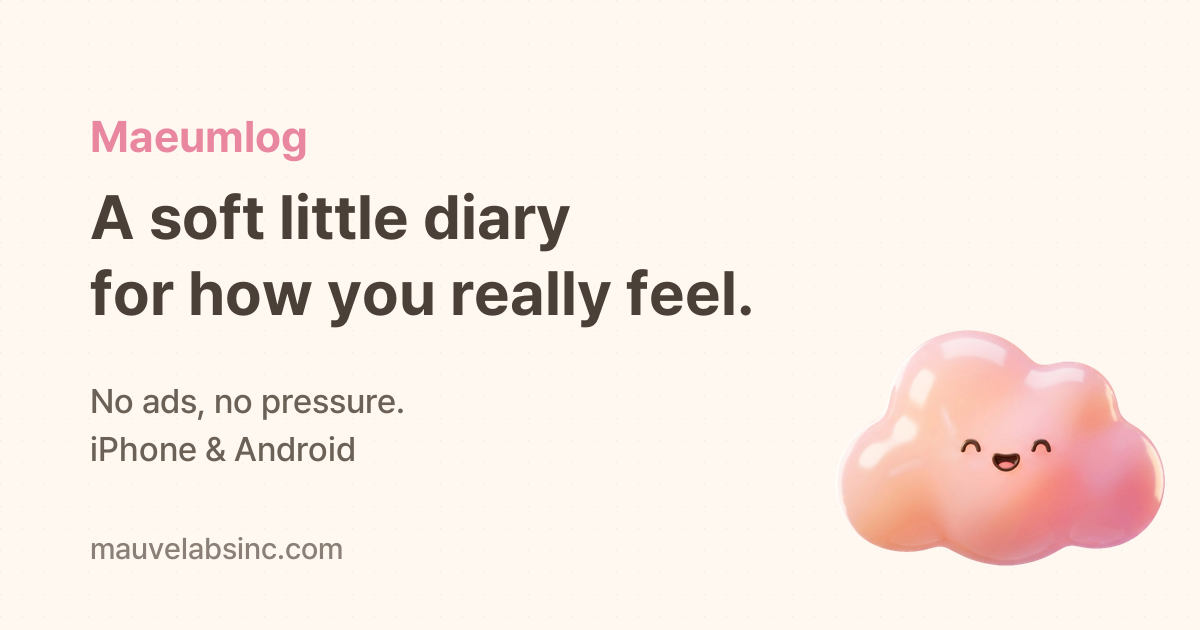
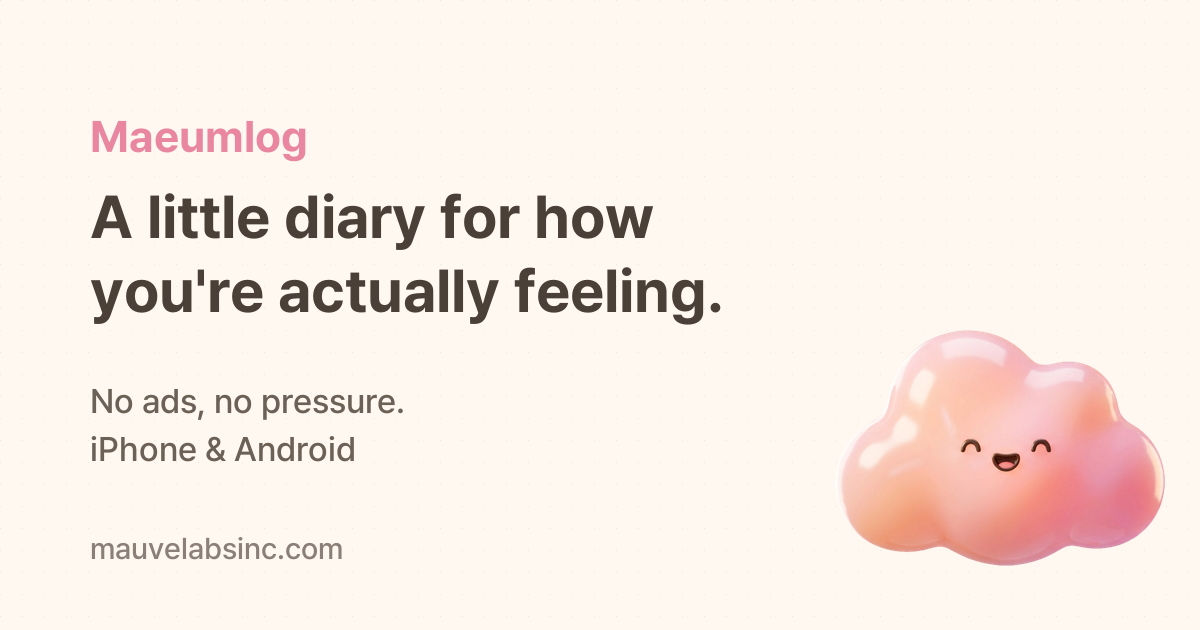
영어 문구를 원어민 대화체로 — 줄표·정형구·세 박자 나열·상담 말투 걷어 냄 · 공유 미리보기 새 제목
몽글이 다섯 표정 문구는 앱(en.ts)과 같아 그대로. 한국어는 뜻이 바뀐 곳만 맞춤.

Claude-Session: https://claude.ai/code/session_017HUExyZ58Y2Jv744zBtPxR

Changed region(s): [[0.0617, 0.4222, 0.6475, 0.5127], [0.1233, 0.3016, 0.555, 0.3921]]

diff --git a/index.html b/index.html
@@ -4,8 +4,8 @@
 <head>
   <meta charset="UTF-8">
   <meta name="viewport" content="width=device-width, initial-scale=1.0">
-  <title>Maeumlog — A cozy mood diary for iPhone and Android</title>
-  <meta name="description" content="Maeumlog is a soft little mood diary. Tap Mongle, pick a mood, add a few words or a photo when you feel like it. No ads, ever. Made by Mauve Labs.">
+  <title>Maeumlog: a cute, ad-free mood diary for iPhone and Android</title>
+  <meta name="description" content="Tap Mongle, pick how you feel, and you're done. Add a note or a photo if you want. No ads, ever. Made by Mauve Labs.">
   <link rel="icon" href="assets/maeumlog-icon.png" type="image/png">
   <link rel="canonical" href="https://mauvelabsinc.com/">
   <link rel="apple-touch-icon" href="assets/apple-touch-icon.png">
@@ -14,8 +14,8 @@
   <meta name="format-detection" content="telephone=no">
   <meta property="og:type" content="website">
   <meta property="og:site_name" content="Maeumlog by Mauve Labs">
-  <meta property="og:title" content="Maeumlog — A soft little diary for how you really feel">
-  <meta property="og:description" content="Tap Mongle, pick a mood, and you're done. No ads, no pressure.">
+  <meta property="og:title" content="Maeumlog: a little diary for how you're actually feeling">
+  <meta property="og:description" content="Tap Mongle, pick a mood, done. No ads, no pressure.">
   <meta property="og:url" content="https://mauvelabsinc.com/">
   <meta property="og:image" content="https://mauvelabsinc.com/assets/og.png">
   <meta property="og:image:width" content="1200">
@@ -44,14 +44,14 @@
   <!-- 첫 화면: 효용 한 줄 + 실제 앱 홈 화면(가리지 않는다) + 공식 배지 -->
   <section class="hero wrap">
     <div class="hero-copy">
-      <span class="sticker">a cozy mood diary</span>
-      <h1>A soft little diary for how you <em>really</em> feel.</h1>
-      <p class="lede">Tap Mongle, pick a mood, and you're done. Add a few words or a photo when you feel like it. No ads, no pressure.</p>
+      <span class="sticker">a tiny mood diary</span>
+      <h1>A little diary for how you're <em>actually</em> feeling.</h1>
+      <p class="lede">Tap Mongle, pick how you feel, and that's it. Want to say more? Add a note or a photo. No ads, no pressure.</p>
       <div class="badges">
         <a href="https://apps.apple.com/app/id6814691795" aria-label="Download on the App Store"><img src="img/badge-app-store.svg?v=18" alt="Download on the App Store" height="50"></a>
         <a href="https://play.google.com/store/apps/details?id=com.mauvelabs.maeumlog" aria-label="Get it on Google Play" class="gp"><img src="img/badge-google-play.png?v=18" alt="Get it on Google Play" height="50"></a>
       </div>
-      <p class="fine">Free to start · iPhone and Android</p>
+      <p class="fine">Free to download · iPhone and Android</p>
     </div>
     <div class="hero-art" aria-hidden="true">
       <!-- 홈 화면이 주인공이고, 통계(기분 그래프)는 그 뒤 옆에 조금 작게(홈 화면을 가리지 않는다) -->
@@ -64,8 +64,8 @@
 
   <!-- 몽글이 다섯 표정: 캐릭터가 주인공. 이름·문구는 앱 번역 파일과 같다 -->
   <section class="moods wrap" aria-labelledby="moods-title">
-    <h2 id="moods-title" data-reveal>Meet Mongle, your little cloud.</h2>
-    <p class="sub" data-reveal>Five moods, five faces. On the hard days, Mongle doesn't judge — it just stays close.</p>
+    <h2 id="moods-title" data-reveal>Say hi to Mongle.</h2>
+    <p class="sub" data-reveal>Mongle is a little cloud that changes with your mood. On rough days, it won't lecture you. It'll just hang out with you.</p>
     <ul class="mood-row" data-reveal-group>
       <li><span class="mongle" data-anim="mongle-very-good-bounce"><img src="img/mongle-very-good.webp" alt=""></span><b>Great</b><span>Great day!</span></li>
       <li><span class="mongle" data-anim="mongle-good-bounce"><img src="img/mongle-good.webp" alt=""></span><b>Good</b><span>A nice, easy day.</span></li>
@@ -78,7 +78,7 @@
   <!-- 애플 제품 페이지처럼: 휴대폰 한 대가 고정되고, 스크롤하면 설명이 지나가며 화면이 바뀐다(PC). 휴대폰에서는 차례로 쌓는다.
        지금 앱에 있는 기능만 적는다 -->
   <section id="how" class="how wrap" aria-labelledby="how-title">
-    <h2 id="how-title" data-reveal>A minute a day is enough.</h2>
+    <h2 id="how-title" data-reveal>Takes about a minute.</h2>
     <div class="story">
       <div class="story-stage" aria-hidden="true">
         <figure class="polaroid stage-frame"><span class="tape stage-tape"></span>
@@ -92,20 +92,20 @@
       <ol class="story-steps">
         <li class="step is-active" data-step="0">
           <span class="step-num">01</span>
-          <h3>Check in, in seconds</h3>
-          <p>Pick a mood, tap a few feelings and what you did. Words are optional.</p>
+          <h3>Check in fast</h3>
+          <p>Pick a mood, then tap how you felt and what you did. Writing is totally optional.</p>
           <figure class="polaroid step-shot tilt-l"><span class="tape pink"></span><img src="img/screen-2.webp" alt="Choosing a mood, feelings and activities in Maeumlog" width="240"></figure>
         </li>
         <li class="step" data-step="1">
           <span class="step-num">02</span>
-          <h3>See your month in color</h3>
-          <p>Every day becomes a little cloud on your calendar. Patterns show up on their own.</p>
+          <h3>See your month at a glance</h3>
+          <p>Each day turns into a little cloud on your calendar, so patterns pop out without you even trying.</p>
           <figure class="polaroid step-shot tilt-r"><span class="tape mint"></span><img src="img/screen-4.webp" alt="A month of moods on the Maeumlog calendar" width="240"></figure>
         </li>
         <li class="step" data-step="2">
           <span class="step-num">03</span>
-          <h3>Notice what lifts you up</h3>
-          <p>Gentle stats show which days feel lighter — with friends, after a walk, over coffee.</p>
+          <h3>Find out what makes your day better</h3>
+          <p>Your stats show what's usually going on when you feel good. Seeing friends? Working out? Coffee?</p>
           <figure class="polaroid step-shot tilt-l"><span class="tape lilac"></span><img src="img/screen-6.webp" alt="Maeumlog stats showing what lifts your mood" width="240"></figure>
         </li>
       </ol>
@@ -115,11 +115,11 @@
   <!-- 개인정보: 앱이 실제로 지키는 것만 -->
   <section id="private" class="private wrap" aria-labelledby="private-title">
     <div class="private-box" data-reveal>
-      <h2 id="private-title">Private by design.</h2>
+      <h2 id="private-title">Your diary stays yours.</h2>
       <ul class="promises" data-reveal-group>
-        <li><b>No ads. Ever.</b><span>Your feelings aren't a product.</span></li>
-        <li><b>Your diary, on your phone.</b><span>Sign in only if you want a cloud backup.</span></li>
-        <li><b>Kept safe, with care.</b><span>Your entries travel securely and are looked after like they're our own.</span></li>
+        <li><b>No ads, ever.</b><span>Just you and your thoughts.</span></li>
+        <li><b>It lives on your phone.</b><span>Only sign in if you want a backup.</span></li>
+        <li><b>We handle it with care.</b><span>Your entries are sent securely, and we take protecting them seriously.</span></li>
       </ul>
       <a class="text-link" href="https://apps.mauvelabsinc.com/maeumlog/en/privacy.html">Read our privacy policy</a>
     </div>
@@ -129,8 +129,8 @@
   <section id="soon" class="soon wrap" aria-labelledby="soon-title">
     <div class="soon-copy" data-reveal>
       <span class="sticker alt">coming soon</span>
-      <h2 id="soon-title">Make every page yours.</h2>
-      <p>Stickers, washi tape, and little doodles are on the way — so your diary can look as cozy as it feels.</p>
+      <h2 id="soon-title">Decorate your pages.</h2>
+      <p>Stickers, washi tape, and doodles are on the way. Make your diary as cute as you want.</p>
     </div>
     <div class="sticker-sheet" aria-hidden="true" data-reveal-group>
       <span class="washi w1"></span><span class="washi w2"></span><span class="washi w3"></span>
@@ -144,7 +144,7 @@
 
   <section class="cta wrap" data-reveal>
     <span class="mongle cta-mongle" data-anim="mongle-normal-idle"><img src="img/mongle-normal.webp" alt="" width="180"></span>
-    <h2>Be gentle with yourself today.</h2>
+    <h2>Go easy on yourself today.</h2>
     <div class="badges center">
       <a href="https://apps.apple.com/app/id6814691795" aria-label="Download on the App Store"><img src="img/badge-app-store.svg?v=18" alt="Download on the App Store" height="50"></a>
       <a href="https://play.google.com/store/apps/details?id=com.mauvelabs.maeumlog" aria-label="Get it on Google Play" class="gp"><img src="img/badge-google-play.png?v=18" alt="Get it on Google Play" height="50"></a>
@@ -155,8 +155,8 @@
 <footer class="wrap">
   <div class="foot-top">
     <div>
-      <p class="made">Maeumlog is made by <b>Mauve Labs</b>, a small, independent app studio.</p>
-      <p class="also">Also from us: <a href="https://apps.apple.com/app/id6758573546">Routiny</a> — habits that grow a plant.</p>
+      <p class="made">Maeumlog is made by <b>Mauve Labs</b>, a small indie app studio.</p>
+      <p class="also">We also make <a href="https://apps.apple.com/app/id6758573546">Routiny</a>, a habit tracker where a plant grows as you stick to your routines.</p>
     </div>
     <nav aria-label="Footer">
       <a href="https://apps.mauvelabsinc.com/maeumlog/en/privacy.html">Privacy</a>

diff --git a/ko/index.html b/ko/index.html
@@ -65,7 +65,7 @@
   <!-- 몽글이 다섯 표정: 캐릭터가 주인공. 이름·문구는 앱 번역 파일과 같다 -->
   <section class="moods wrap" aria-labelledby="moods-title">
     <h2 id="moods-title" data-reveal>구름 친구 몽글이를 소개해요.</h2>
-    <p class="sub" data-reveal>다섯 가지 기분, 다섯 가지 표정. 힘든 날에도 몽글이는 다그치지 않고 곁에 있어요.</p>
+    <p class="sub" data-reveal>몽글이는 기분 따라 표정이 바뀌는 작은 구름이에요. 힘든 날에도 다그치지 않고 그냥 곁에 있어 줘요.</p>
     <ul class="mood-row" data-reveal-group>
       <li><span class="mongle" data-anim="mongle-very-good-bounce"><img src="../img/mongle-very-good.webp" alt=""></span><b>최고</b><span>좋은 하루네요!</span></li>
       <li><span class="mongle" data-anim="mongle-good-bounce"><img src="../img/mongle-good.webp" alt=""></span><b>좋음</b><span>잔잔하게 좋은 날</span></li>
@@ -117,9 +117,9 @@
     <div class="private-box" data-reveal>
       <h2 id="private-title">내 마음은 나만 봐요.</h2>
       <ul class="promises" data-reveal-group>
-        <li><b>광고는 절대 없어요.</b><span>당신의 마음은 상품이 아니니까요.</span></li>
+        <li><b>광고는 절대 없어요.</b><span>오롯이 나와 내 마음만.</span></li>
         <li><b>일기는 내 휴대폰에.</b><span>백업이 필요할 때만 로그인하세요.</span></li>
-        <li><b>소중하게 지켜요.</b><span>내 기록은 안전하게 오가고, 내 것처럼 아끼며 보관해요.</span></li>
+        <li><b>소중하게 지켜요.</b><span>기록은 안전하게 전송되고, 지키는 일을 가볍게 여기지 않아요.</span></li>
       </ul>
       <a class="text-link" href="https://apps.mauvelabsinc.com/maeumlog/privacy.html">개인정보처리방침 보기</a>
     </div>
@@ -130,7 +130,7 @@
     <div class="soon-copy" data-reveal>
       <span class="sticker alt">곧 만나요</span>
       <h2 id="soon-title">나만의 페이지로 꾸며요.</h2>
-      <p>스티커, 마스킹테이프, 귀여운 낙서가 곧 찾아와요. 마음만큼 포근해 보이는 일기를 만들 수 있게요.</p>
+      <p>스티커, 마스킹테이프, 낙서가 곧 찾아와요. 마음껏 귀엽게 꾸며 보세요.</p>
     </div>
     <div class="sticker-sheet" aria-hidden="true" data-reveal-group>
       <span class="washi w1"></span><span class="washi w2"></span><span class="washi w3"></span>
